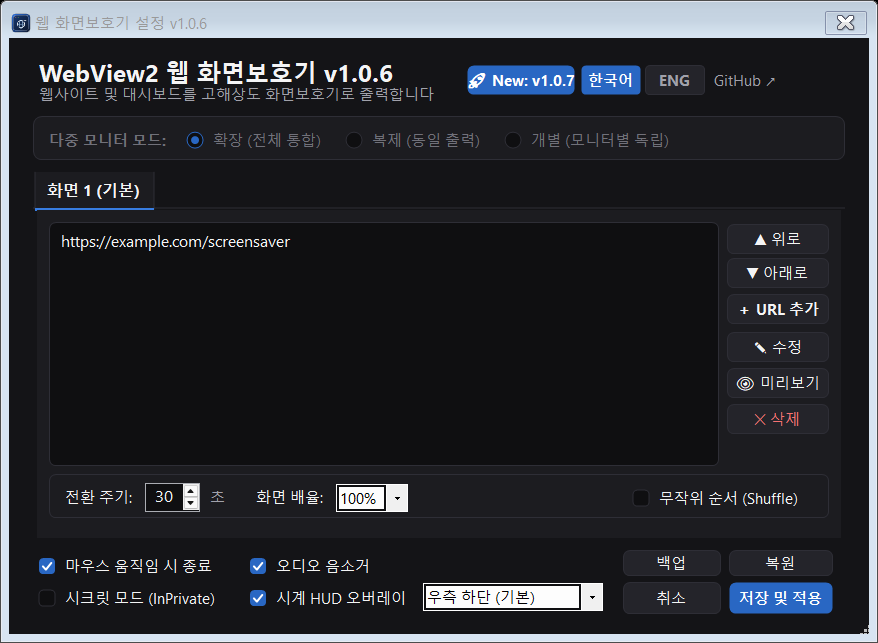
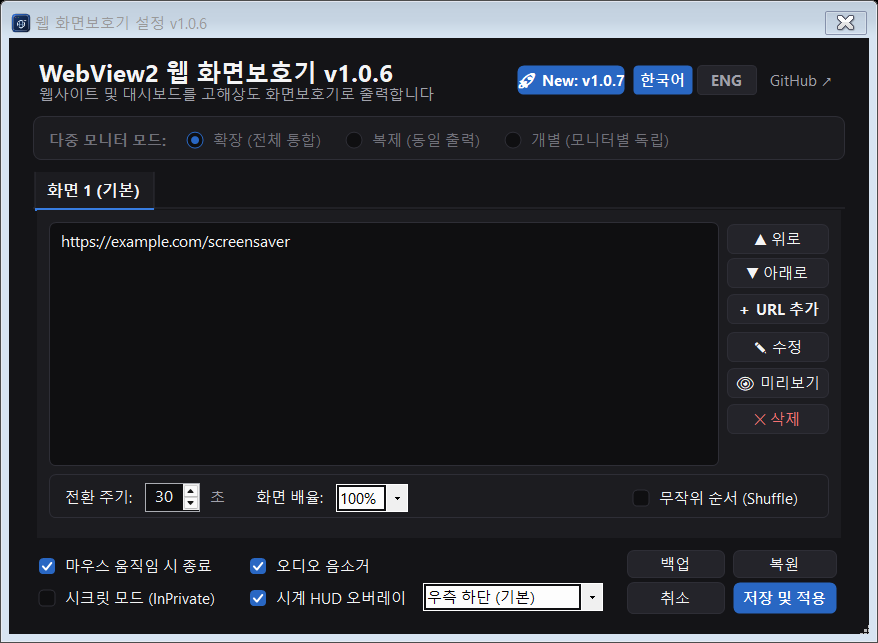
fix(ui): 깃헙 버튼 우측 여백을 하단 버튼 라인과 수직 일치 정렬 (여백 최적화)

Changed region(s): [[0.5228, 0.0933, 0.9226, 0.1555], [0.8303, 0.8709, 0.9533, 0.9642], [0.738, 0.8398, 0.7995, 0.9331]]

diff --git a/PreferencesForm.cs b/PreferencesForm.cs
@@ -296,16 +296,26 @@ namespace Web_Page_Screensaver
             cmbClockPosition.Size = new Size(180, 23);
             cmbClockPosition.Location = new Point(cbClockOverlay.Right + 8, 39);
 
-            // 우측 확인/취소 버튼 및 바로 윗자리 백업/복원 버튼 정렬
+            // 3. 상단 헤더 우측 컨트롤 정렬 (GitHub 버튼 우측 여백을 하단 버튼과 일치하게 8px로 밀착)
+            if (headerPanel.Width >= 500)
+            {
+                int headerRight = headerPanel.Width - 8;
+                btnGithub.Location = new Point(headerRight - btnGithub.Width, 11);
+                langPanel.Location = new Point(btnGithub.Left - 8 - langPanel.Width, 11);
+                btnUpdateNotice.Location = new Point(langPanel.Left - 8 - btnUpdateNotice.Width, 11);
+            }
+
+            // 4. 우측 확인/취소 버튼 및 바로 윗자리 백업/복원 버튼 정렬 (우측 끝 8px 일치)
             int panelW = bottomPanel.ClientSize.Width > 0 ? bottomPanel.ClientSize.Width : 812;
-            okButton.Location = new Point(panelW - okButton.Width - 12, 38);
-            cancelButton.Location = new Point(okButton.Left - cancelButton.Width - 8, 38);
+            int bottomRight = panelW - 8;
+            okButton.Location = new Point(bottomRight - okButton.Width, 38);
+            cancelButton.Location = new Point(okButton.Left - 8 - cancelButton.Width, 38);
 
             // 취소/저장 바로 윗자리로 백업/복원 배치
             btnExport.Location = new Point(cancelButton.Left, 6);
-            btnExport.Size = new Size(cancelButton.Width, 26);
+            btnExport.Size = new Size(cancelButton.Width, 28);
             btnImport.Location = new Point(okButton.Left, 6);
-            btnImport.Size = new Size(okButton.Width, 26);
+            btnImport.Size = new Size(okButton.Width, 28);
         }
 
         private void btnLangKor_Click(object sender, EventArgs e)

diff --git a/PreferencesForm.Designer.cs b/PreferencesForm.Designer.cs
@@ -92,7 +92,7 @@ namespace Web_Page_Screensaver
             this.btnUpdateNotice.FlatAppearance.BorderSize = 0;
             this.btnUpdateNotice.FlatStyle = System.Windows.Forms.FlatStyle.Flat;
             this.btnUpdateNotice.Font = new System.Drawing.Font("Segoe UI", 8.5F, System.Drawing.FontStyle.Bold);
-            this.btnUpdateNotice.Location = new System.Drawing.Point(434, 11);
+            this.btnUpdateNotice.Location = new System.Drawing.Point(484, 11);
             this.btnUpdateNotice.Name = "btnUpdateNotice";
             this.btnUpdateNotice.Size = new System.Drawing.Size(108, 30);
             this.btnUpdateNotice.Style = Web_Page_Screensaver.ModernButtonStyle.Primary;
@@ -143,7 +143,7 @@ namespace Web_Page_Screensaver
             this.langPanel.Anchor = ((System.Windows.Forms.AnchorStyles)((System.Windows.Forms.AnchorStyles.Top | System.Windows.Forms.AnchorStyles.Right)));
             this.langPanel.Controls.Add(this.btnLangKor);
             this.langPanel.Controls.Add(this.btnLangEng);
-            this.langPanel.Location = new System.Drawing.Point(548, 11);
+            this.langPanel.Location = new System.Drawing.Point(600, 11);
             this.langPanel.Name = "langPanel";
             this.langPanel.Size = new System.Drawing.Size(126, 30);
             this.langPanel.TabIndex = 3;
@@ -193,7 +193,7 @@ namespace Web_Page_Screensaver
             this.btnGithub.FlatAppearance.BorderSize = 0;
             this.btnGithub.FlatStyle = System.Windows.Forms.FlatStyle.Flat;
             this.btnGithub.Font = new System.Drawing.Font("Segoe UI", 8.5F);
-            this.btnGithub.Location = new System.Drawing.Point(678, 11);
+            this.btnGithub.Location = new System.Drawing.Point(734, 11);
             this.btnGithub.Name = "btnGithub";
             this.btnGithub.Size = new System.Drawing.Size(70, 30);
             this.btnGithub.Style = Web_Page_Screensaver.ModernButtonStyle.Ghost;

diff --git a/AssetScreenshotGenerator.cs b/AssetScreenshotGenerator.cs
@@ -32,6 +32,7 @@ namespace Web_Page_Screensaver
             using (var form = new PreferencesForm())
             {
                 form.StartPosition = FormStartPosition.CenterScreen;
+                form.ClientSize = new Size(860, 596);
                 form.TopMost = true;
                 form.Show();
 
